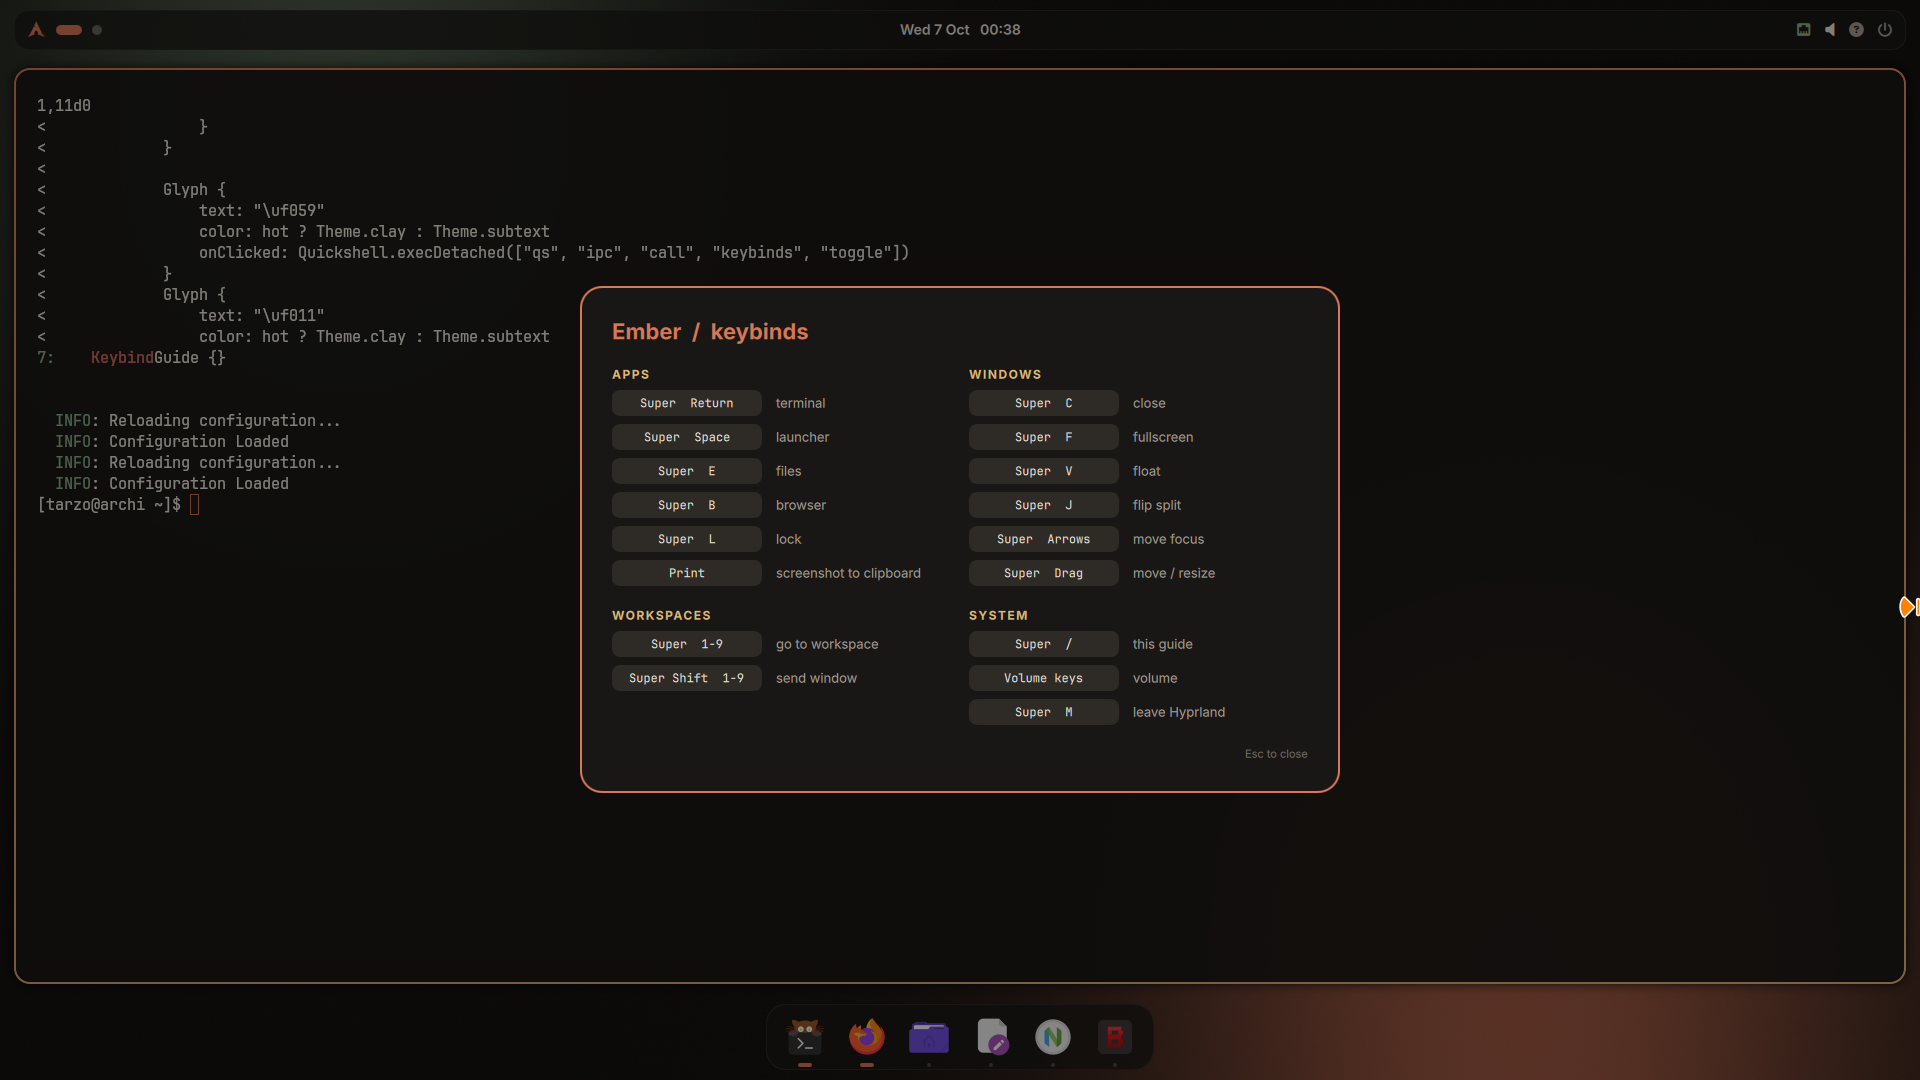
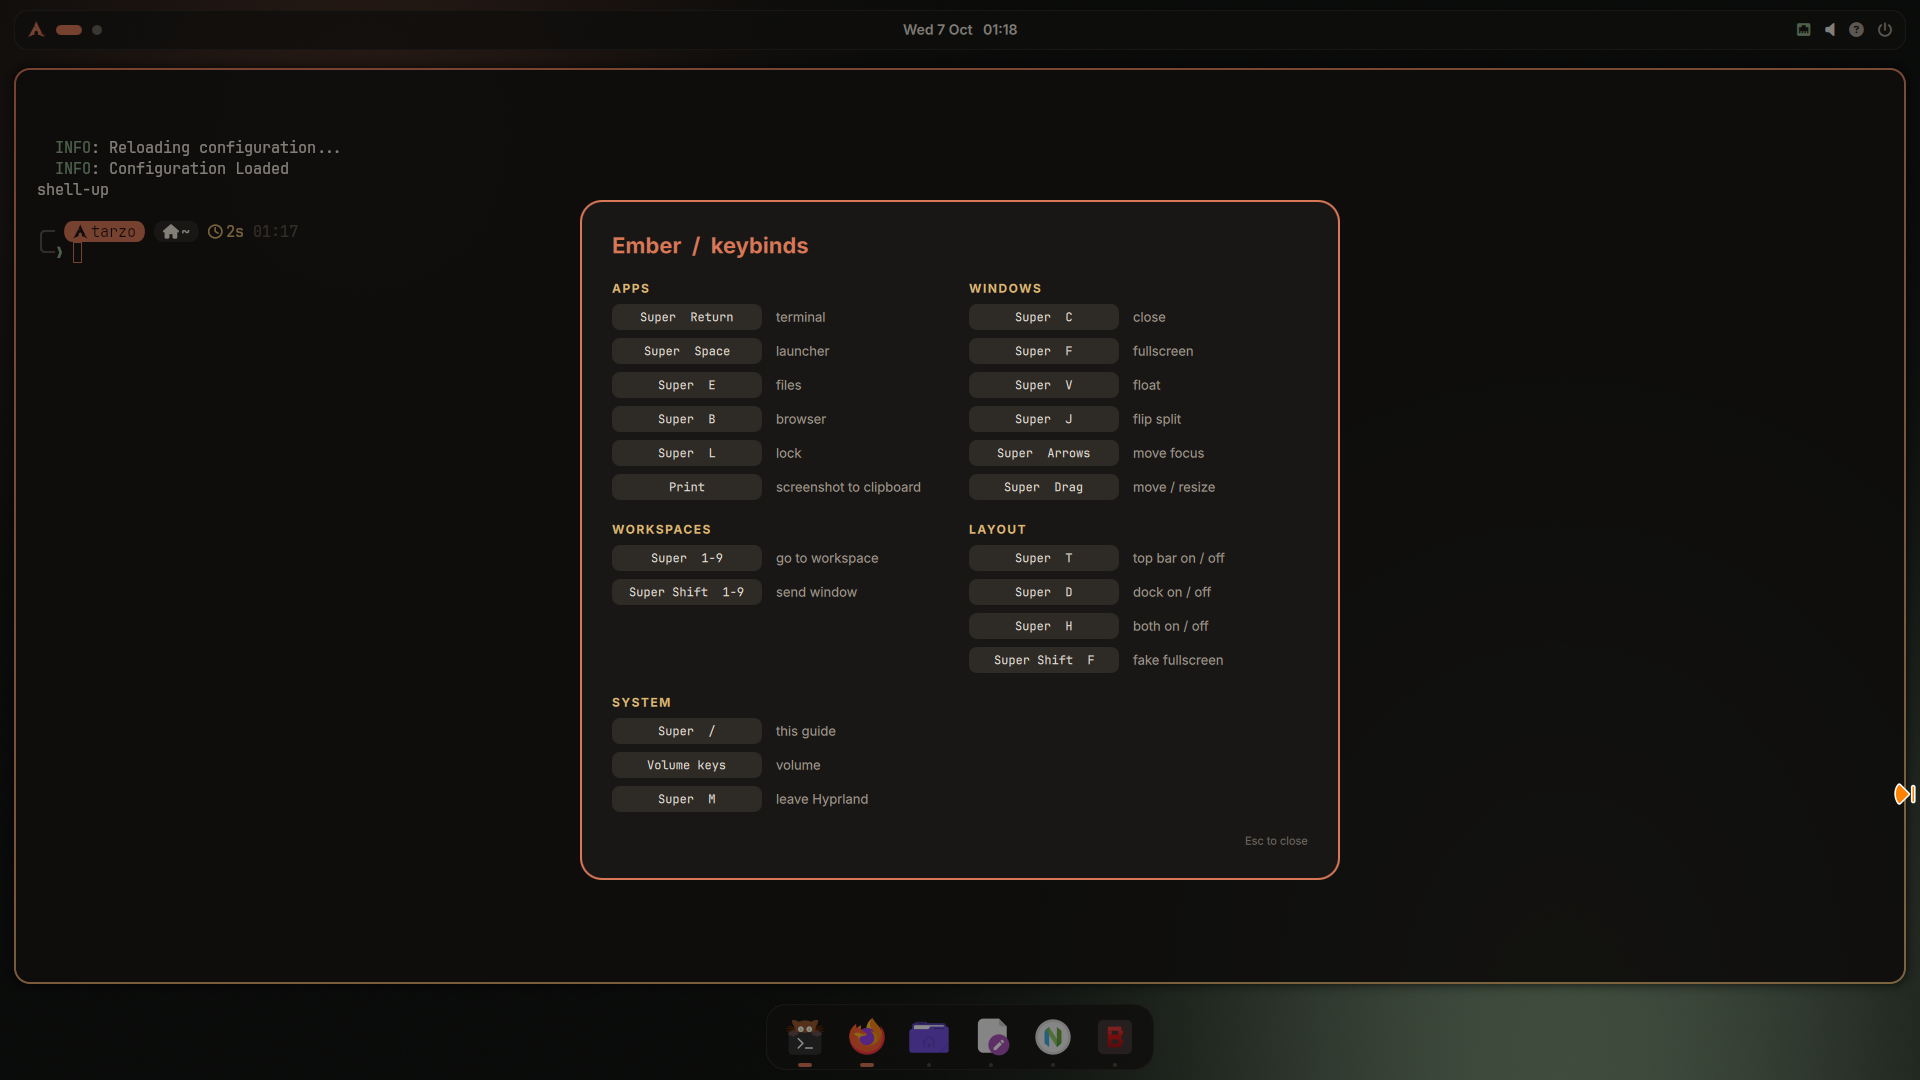
Add panel toggles and fake fullscreen
Super+T / Super+D / Super+H hide the top bar, the dock, or both
(a "panels" IPC target in the shell). Super+Shift+F is a fake
fullscreen: the bar stays, the dock hides, gaps and rounding drop
to 0 - a Lua bind that calls hl.config at runtime. The keybind
guide gets a Layout section.

diff --git a/dotfiles/.config/quickshell/shell.qml b/dotfiles/.config/quickshell/shell.qml
@@ -1,10 +1,24 @@
 //@ pragma IconTheme Tela-orange-dark
 import Quickshell
 import QtQuick
+import Quickshell.Io
 
 // wallpaper, bar and dock on every screen
 ShellRoot {
     KeybindGuide {}
+
+    // `qs ipc call panels bar|dock|both|setDock <true|false>`
+    IpcHandler {
+        target: "panels"
+        function bar(): void { Theme.barShown = !Theme.barShown }
+        function dock(): void { Theme.dockShown = !Theme.dockShown }
+        function both(): void {
+            const show = !(Theme.barShown || Theme.dockShown)
+            Theme.barShown = show
+            Theme.dockShown = show
+        }
+        function setDock(show: bool): void { Theme.dockShown = show }
+    }
 
     Variants {
         model: Quickshell.screens

diff --git a/dotfiles/.config/quickshell/KeybindGuide.qml b/dotfiles/.config/quickshell/KeybindGuide.qml
@@ -29,6 +29,9 @@ PanelWindow {
             ["Super  J", "flip split"], ["Super  Arrows", "move focus"], ["Super  Drag", "move / resize"] ] },
         { title: "Workspaces", keys: [
             ["Super  1-9", "go to workspace"], ["Super Shift  1-9", "send window"] ] },
+        { title: "Layout", keys: [
+            ["Super  T", "top bar on / off"], ["Super  D", "dock on / off"],
+            ["Super  H", "both on / off"], ["Super Shift  F", "fake fullscreen"] ] },
         { title: "System", keys: [
             ["Super  /", "this guide"], ["Volume keys", "volume"], ["Super  M", "leave Hyprland"] ] }
     ]

diff --git a/dotfiles/.config/quickshell/Dock.qml b/dotfiles/.config/quickshell/Dock.qml
@@ -11,7 +11,7 @@ PanelWindow {
     implicitWidth: row.implicitWidth + 28
     implicitHeight: 66
     exclusiveZone: 72
-    color: "transparent"
+    color: "transparent"; visible: Theme.dockShown
     WlrLayershell.namespace: "qs-dock"
 
     property var apps: ["kitty", "firefox", "thunar", "org.xfce.mousepad", "nvim", "btop"]

diff --git a/dotfiles/.config/quickshell/Theme.qml b/dotfiles/.config/quickshell/Theme.qml
@@ -14,4 +14,7 @@ Singleton {
     readonly property color sand: "#e0b872"
     readonly property string font: "Inter"
     readonly property string icons: "JetBrainsMono Nerd Font"
+    // panel toggles (Super+T / Super+D / Super+H, fake fullscreen)
+    property bool barShown: true
+    property bool dockShown: true
 }

diff --git a/dotfiles/.config/quickshell/Bar.qml b/dotfiles/.config/quickshell/Bar.qml
@@ -14,7 +14,7 @@ PanelWindow {
     margins { top: 10; left: 14; right: 14 }
     implicitHeight: 40
     exclusiveZone: 44
-    color: "transparent"
+    color: "transparent"; visible: Theme.barShown
     WlrLayershell.namespace: "qs-bar"
 
     // a clickable Nerd Font glyph

diff --git a/README.md b/README.md
@@ -11,6 +11,7 @@ Everything in it was written for Hyprland 0.56 and its new **Lua** config.
 | ![keybind guide](screenshots/keybinds.png) | ![launcher](screenshots/launcher.png) |
 | ![neovim](screenshots/neovim.png) | ![btop](screenshots/btop.png) |
 | ![power menu](screenshots/powermenu.png) | ![lock screen](screenshots/lockscreen.png) |
+| ![fake fullscreen](screenshots/fake-fullscreen.png) | |
 
 ## What's inside
 
@@ -21,6 +22,7 @@ Everything in it was written for Hyprland 0.56 and its new **Lua** config.
 | Bar | Quickshell | launcher button, workspace pills, clock, tray, network, volume (scroll to change), keybind guide, power |
 | Dock | Quickshell | pinned apps with running indicators, hover zoom |
 | Keybind guide | Quickshell | **Super + /** or the `?` in the bar |
+| Panel toggles | Quickshell + Hyprland | hide the top bar, the dock, or both; **fake fullscreen** keeps the bar, drops the dock and takes windows edge to edge |
 | Launcher | fuzzel | search glyph, clay selection bar, Tela icons; also drives the power menu |
 | Notifications | mako | |
 | Lock / idle | hyprlock, hypridle | locks after 10 minutes |
@@ -66,6 +68,10 @@ chose 2x on the 1080p VM this was built on. Change the `hl.monitor` line to matc
 | `Super` + drag (left / right) | move / resize |
 | `Super` + `1`-`9` | go to workspace |
 | `Super` + `Shift` + `1`-`9` | send window to workspace |
+| `Super` + `T` | top bar on / off |
+| `Super` + `D` | dock on / off |
+| `Super` + `H` | both on / off |
+| `Super` + `Shift` + `F` | fake fullscreen (bar stays, dock hides, no gaps) |
 | `Super` + `/` | keybind guide |
 | volume keys | volume |
 | `Super` + `M` | leave Hyprland |
